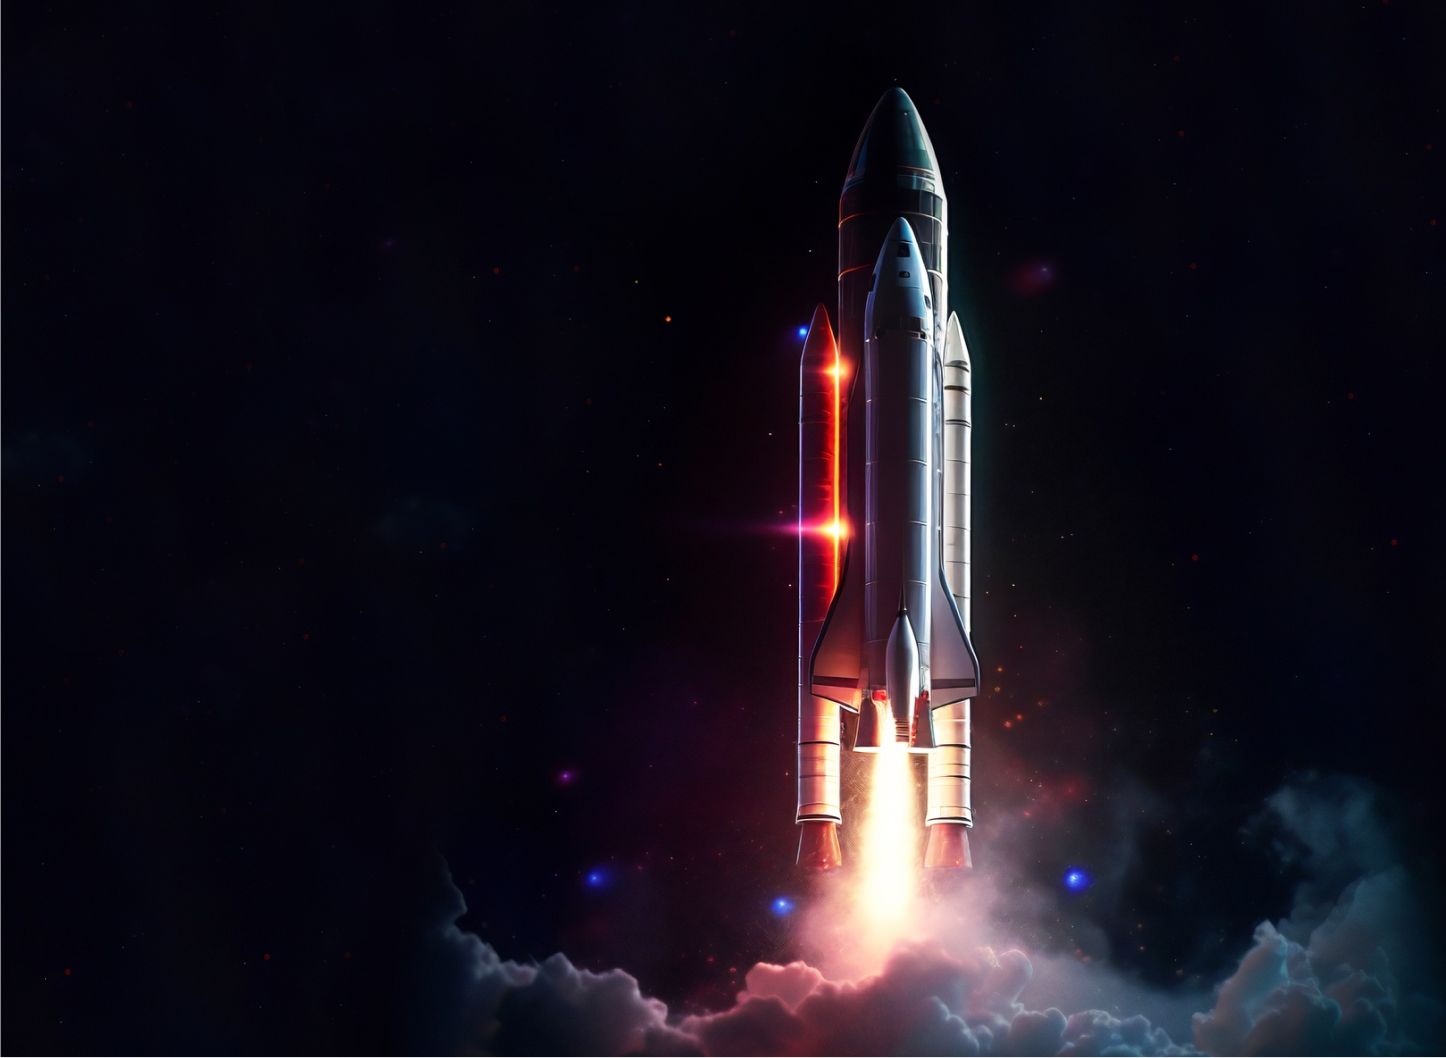
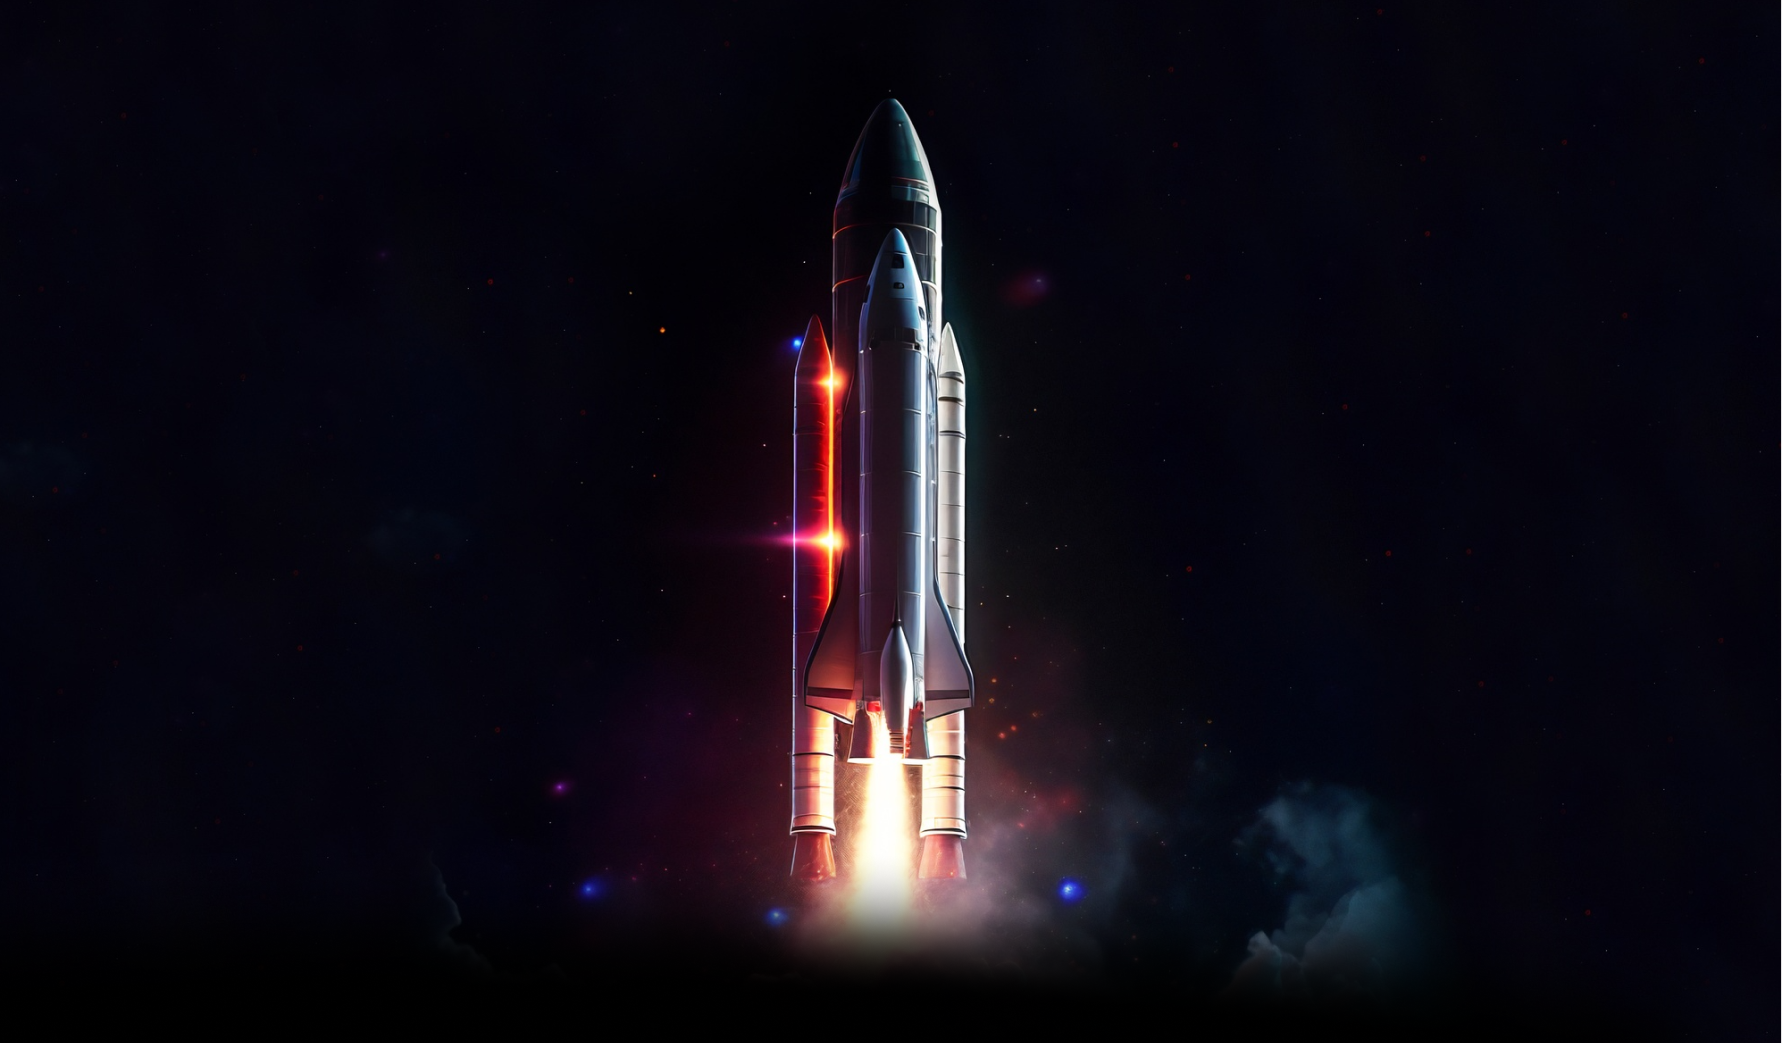
QAQW

Changed region(s): [[0.2801, 0.0, 1.0, 1.0]]

diff --git a/style.css b/style.css
@@ -16,114 +16,262 @@
    License: none (public domain)
 */
 
-html, body, div, span, applet, object, iframe,
-h1, h2, h3, h4, h5, h6, p, blockquote, pre,
-a, abbr, acronym, address, big, cite, code,
-del, dfn, em, img, ins, kbd, q, s, samp,
-small, strike, strong, sub, sup, tt, var,
-b, u, i, center,
-dl, dt, dd, ol, ul, li,
-fieldset, form, label, legend,
-table, caption, tbody, tfoot, thead, tr, th, td,
-article, aside, canvas, details, embed, 
-figure, figcaption, footer, header, hgroup, 
-menu, nav, output, ruby, section, summary,
-time, mark, audio, video {
-	margin: 0;
-	padding: 0;
-	border: 0;
-	font-size: 100%;
-	font: inherit;
-	vertical-align: baseline;
-}
-/* HTML5 display-role reset for older browsers */
-article, aside, details, figcaption, figure, 
-footer, header, hgroup, menu, nav, section {
-	display: block;
-}
-body {
-	line-height: 1;
-}
-ol, ul {
-	list-style: none;
-}
-blockquote, q {
-	quotes: none;
-}
-blockquote:before, blockquote:after,
-q:before, q:after {
-	content: '';
-	content: none;
-}
-table {
-	border-collapse: collapse;
-	border-spacing: 0;
+html,
+body,
+div,
+span,
+applet,
+object,
+iframe,
+h1,
+h2,
+h3,
+h4,
+h5,
+h6,
+p,
+blockquote,
+pre,
+a,
+abbr,
+acronym,
+address,
+big,
+cite,
+code,
+del,
+dfn,
+em,
+img,
+ins,
+kbd,
+q,
+s,
+samp,
+small,
+strike,
+strong,
+sub,
+sup,
+tt,
+var,
+b,
+u,
+i,
+center,
+dl,
+dt,
+dd,
+ol,
+ul,
+li,
+fieldset,
+form,
+label,
+legend,
+table,
+caption,
+tbody,
+tfoot,
+thead,
+tr,
+th,
+td,
+article,
+aside,
+canvas,
+details,
+embed,
+figure,
+figcaption,
+footer,
+header,
+hgroup,
+menu,
+nav,
+output,
+ruby,
+section,
+summary,
+time,
+mark,
+audio,
+video {
+    margin: 0;
+    padding: 0;
+    border: 0;
+    font-size: 100%;
+    font: inherit;
+    vertical-align: baseline;
 }
 
-body{
+/* HTML5 display-role reset for older browsers */
+article,
+aside,
+details,
+figcaption,
+figure,
+footer,
+header,
+hgroup,
+menu,
+nav,
+section {
+    display: block;
+}
+
+body {
+    line-height: 1;
+}
+
+ol,
+ul {
+    list-style: none;
+}
+
+blockquote,
+q {
+    quotes: none;
+}
+
+blockquote:before,
+blockquote:after,
+q:before,
+q:after {
+    content: '';
+    content: none;
+}
+
+
+html::-webkit-scrollbar-track
+{
+	-webkit-box-shadow: inset 0 0 6px rgba(0,0,0,0.3);
+	border-radius: 10px;
+	background-color: #303030;
+}
+
+html::-webkit-scrollbar
+{
+	width: 8px;
+	background-color: #303030;
+}
+
+html::-webkit-scrollbar-thumb
+{
+	border-radius: 10px;
+	-webkit-box-shadow: inset 0 0 6px rgba(0,0,0,.3);
+	background-color: #D62929;
+}
+table {
+    border-collapse: collapse;
+    border-spacing: 0;
+}
+
+body {
     background-color: #000;
     max-width: 100vw;
     height: 100vh;
     color: #fff;
 }
 
+main {
+    padding: 0 7em;
+}
 
-.header-intro{
-    background: rgba(153, 51, 51, 0.193);
+
+.header-intro {
     width: 100%;
     height: 45em;
     display: flex;
     justify-content: space-between;
     overflow-y: hidden;
 }
-.intro-texto{
+
+.intro-texto {
     width: 50em;
     height: 100%;
     display: flex;
     flex-direction: column;
-    position: absolute;
 }
 
-.intro-texto h1{
+.intro-texto h1 {
     font-size: 3rem;
     font-weight: 700;
 }
 
-.intro-texto p{
+.intro-texto p {
     margin-top: 1rem;
-    font-weight: 300    ;
+    font-weight: 300;
 }
 
-.intro-texto h1 span{
+.intro-texto h1 span {
     color: var(--base-red);
 }
 
-.aling-texto{
+.aling-texto {
     margin: 12rem 0;
 }
 
-.intro-foguete{
-    position: relative;
-    z-index: -1;
-    background-size: cover;
-    background-color: rebeccapurple;   
+.intro-foguete {
+    top: 0;
+    position: fixed;
+    z-index: -4;
+    opacity: 0.5;
 }
 
-.intro-foguete img{width: 56em; }
-
-
-
-/* Estilos padrão para dispositivos móveis */
-@media screen and (max-width: 767px) {
-    /* Adicione aqui os estilos específicos para dispositivos móveis */
+.intro-foguete img {
+    width: 75em;
 }
 
-/* Estilos para tablets */
-@media screen and (min-width: 768px) and (max-width: 991px) {
-    /* Adicione aqui os estilos específicos para tablets */
+.aling-texto button {
+    background: rgb(255, 0, 0);
+    background: linear-gradient(121deg, rgba(255, 0, 0, 1) 30%, rgba(238, 68, 15, 1) 100%);
+    height: 4em;
+    width: 32em;
+    margin-top: 2em;
+    border-radius: 18px;
+    color: #fff;
+    -webkit-transition: all 0.3s;
+    -moz-transition: all 0.3s;
+    transition: all 0.3s;
+    cursor: pointer;
 }
 
-/* Estilos para desktops */
-@media screen and (min-width: 992px) {
-    /* Adicione aqui os estilos específicos para desktops */
+.aling-texto button:hover {
+    -webkit-box-shadow: -7px 21px 16px 6px rgba(255, 0, 0, 0.75);
+    -moz-box-shadow: -7px 21px 16px 6px rgba(255, 0, 0, 0.75);
+}
+
+
+
+/* Hasta 480px de ancho (teléfonos pequeños y antiguos) */
+@media (max-width: 480px) {
+    /* Estilos específicos para dispositivos móviles */
+}
+
+/* De 481px a 767px de ancho (teléfonos más grandes y pequeñas tabletas) */
+@media (min-width: 481px) and (max-width: 767px) {
+    /* Estilos específicos para dispositivos móviles */
+}
+
+
+/* De 768px a 1024px de ancho (tabletas) */
+@media (min-width: 768px) and (max-width: 1024px) {
+    /* Estilos específicos para tabletas */
+}
+
+
+/* De 1025px a 1366px de ancho (monitores de escritorio y laptops) */
+@media (min-width: 1025px) and (max-width: 1366px) {
+    .intro-foguete {
+        left: 18em;
+    }
+}
+
+/* A partir de 1367px de ancho (monitores grandes y pantallas panorámicas) */
+@media (min-width: 1367px) {
+
+    .intro-foguete {
+        left: 30em;
+    }
 }

diff --git a/index.html b/index.html
@@ -21,7 +21,7 @@
                 <div class="aling-texto">
                     <h1>DEIXE-NOS LEVAR O <br/> SEU NEGÓCIO PARA <br/>A <span>ESTRATOSFERA</span></h1>
                     <p>Se você está procurando uma agência digital parceira e <br/> comprometida em ajuda-lo a crescer, fale com a gente.<br/> Estamos prontos para embarcar nessa jornada com você!</p>
-               
+                    <button>Quero começar a Missão de Sucesso</button>
                 </div>
          </div>
 
